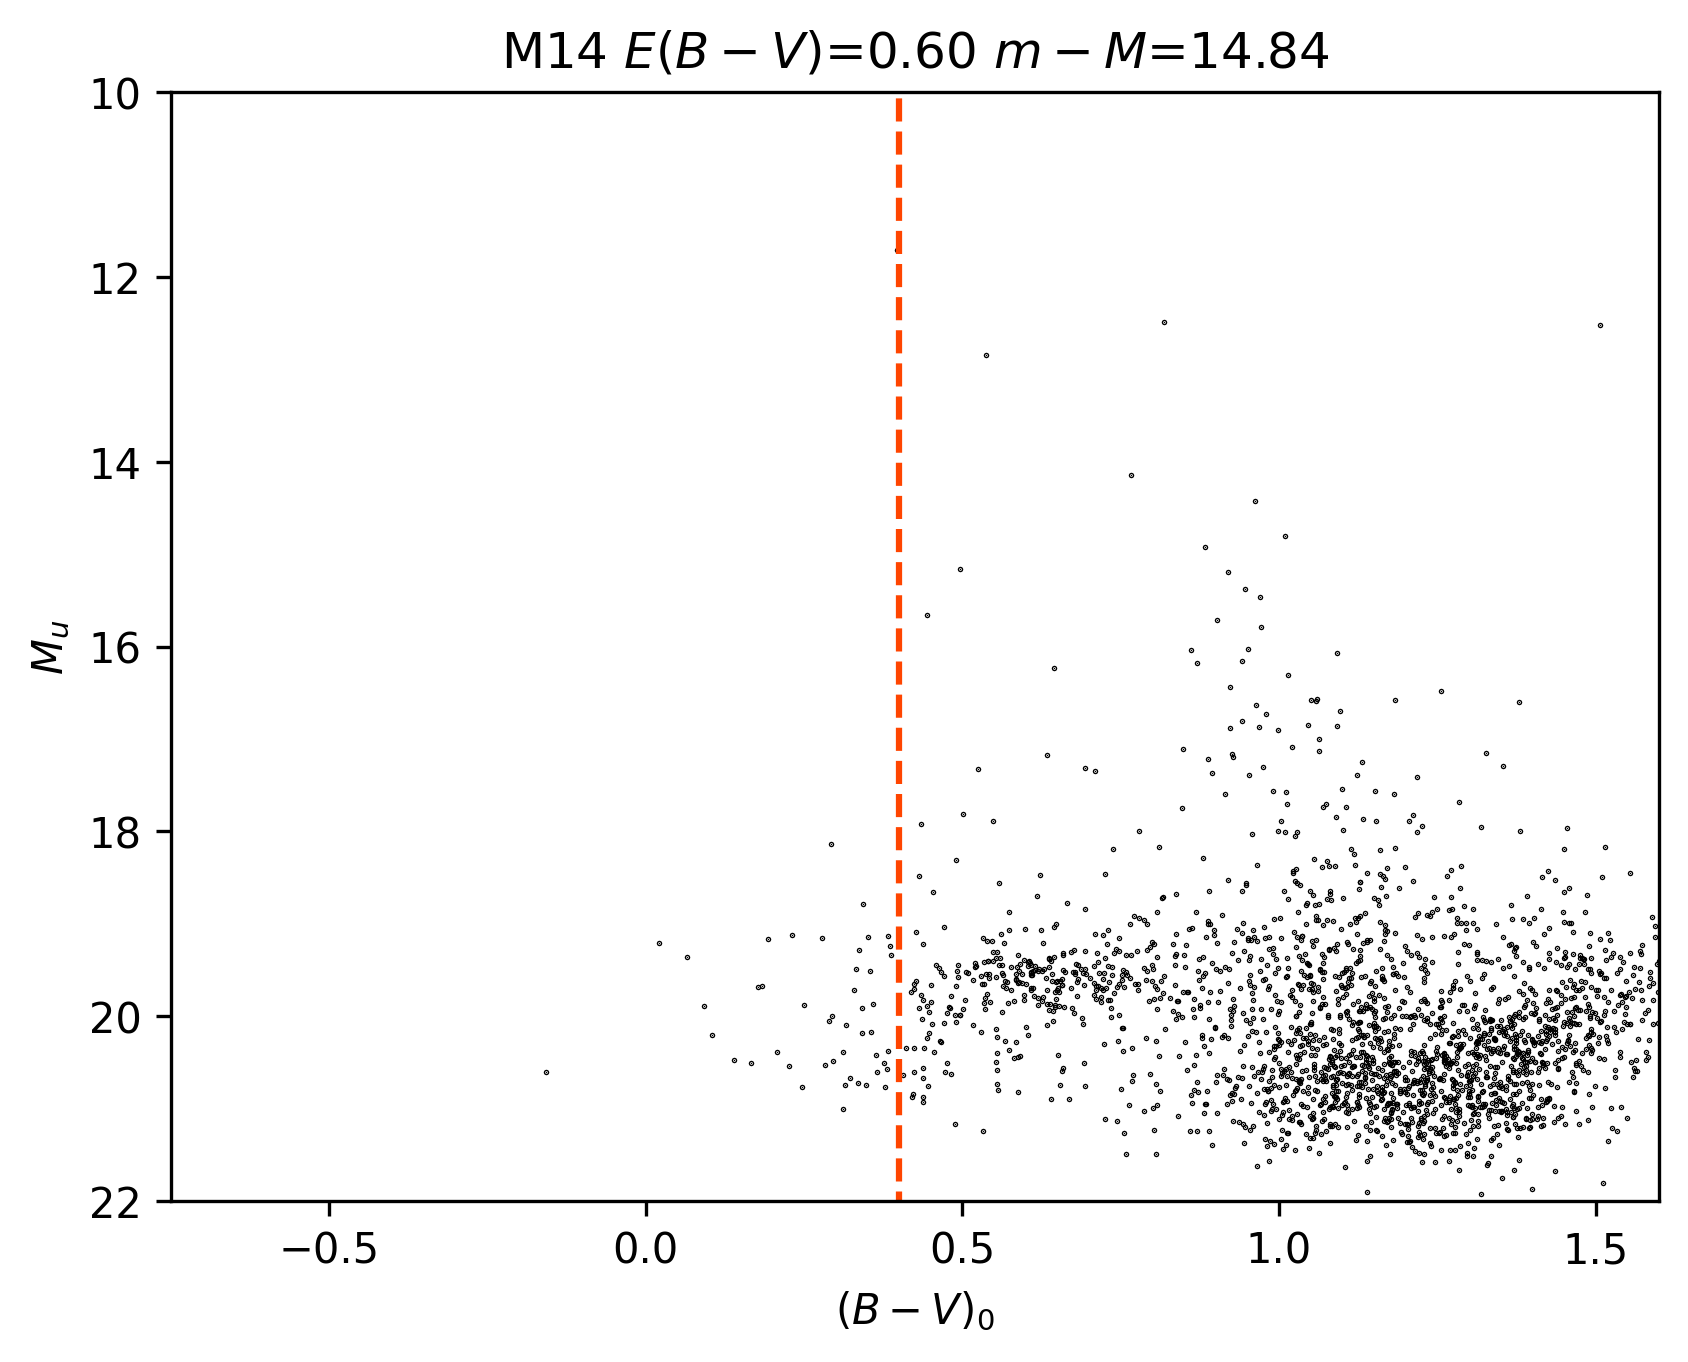
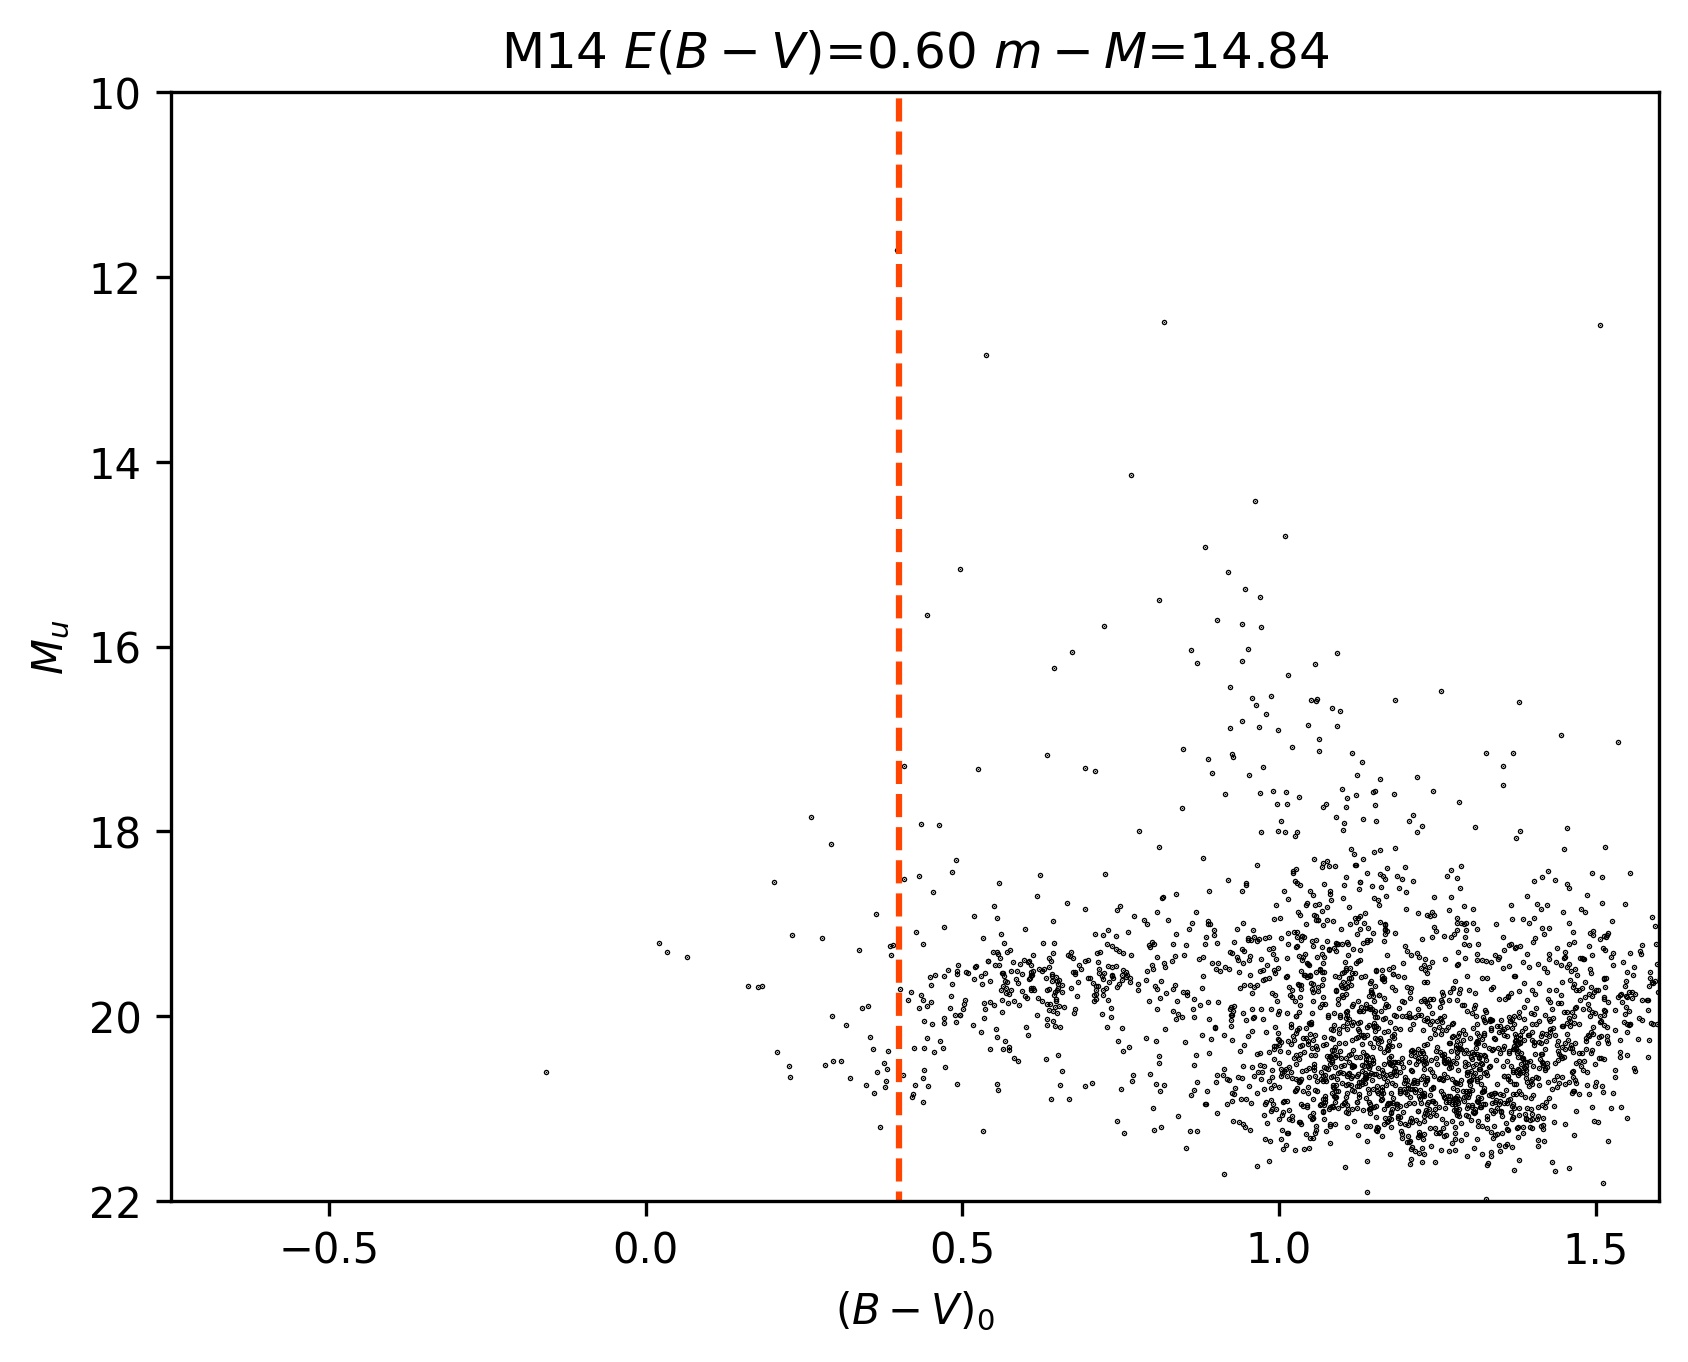
Changed HB model to fix for M14, updated plots to include HB model

diff --git a/trial.py b/trial.py
@@ -43,7 +43,7 @@ dat2 = Table.read(clusterGaiaFile, format="ascii")
 dat4 = pd.read_csv("GAIAData/{}".format(clusterGaiaResults))
 dat4 = dat4.fillna(1000)
 
-ext = "july"
+ext = "testing"
 
 unID, indexes, inverse, counts = np.unique(dat4[f"{clusterName.lower()}_oid"],
           return_index=True,
@@ -238,19 +238,20 @@ def DBSCANPlots(bv,v,b,u,vi,ub,ubbv,clusterName,cond,dist,raClust,decClust,c,r_c
     distModulus = 5*np.log10(dist*100)
     
     #breakpoint()
-    fig, ax = plt.subplots()
-    ax.scatter(bv[indAll],v[indAll],c='k',s=0.1)
+    # fig, ax = plt.subplots()
+    # ax.scatter(bv[indAll],v[indAll],c='k',s=0.1)
     #ax.scatter(bvhb,vhb,c='b',s=2)
-    xplot = np.linspace(bv[indAll].min(),bv[indAll].max(),len(bv[indAll]))
+    # xplot = np.linspace(bv[indAll].min(),bv[indAll].max(),len(bv[indAll]))
     #x_array = np.linspace(-0.6,1.3,100)
-    y = model_f(xplot, -3.74, 7.03, 6.83, -19.86, 8.98, -1.51, 0.35,-0.15)
-    #y = model_f(xplot, -3.74, 7.03, 6.83, -19.86, 8.98, -1.51, 0.83)
-    ax.plot(xplot, y, "r-")
-    ax.vlines(x = -0.05, ymin = -4, ymax = 5)
-    #ax.plot(xplot,model_f(xplot,*popt),'r--')
+    # y = model_f(xplot, -3.74, 7.03, 6.83, -19.86, 8.98, -1.51, 0.35,-0.15)
+    # #y = model_f(xplot, -3.74, 7.03, 6.83, -19.86, 8.98, -1.51, 0.83)
+    # ax.plot(xplot, y, "r-")
+    # ax.vlines(x = -0.05, ymin = -4, ymax = 5)
+    # #ax.plot(xplot,model_f(xplot,*popt),'r--')
 
     #HB Model Equation
-    y2 = model_f(bv[indAll], -3.74, 7.03, 6.83, -19.86, 8.98, -1.51, 0.35,-0.15)
+    y2 = model_f(bv[indAll], -3.74, 7.03, 6.83, -19.86, 8.98, -1.51, 0.35,0.05)
+    y_u = model_f(bv[indAll], -3.74, 7.03, 6.83, -19.86, 8.98, -1.51, 1.65, 0.6)
 
     #y2 = model_f(bv[indAll], -3.74, 7.03, 6.83, -19.86, 8.98, -1.51, 0.83)
     UVBrightCond = np.logical_and(v[indAll]<y2,bv[indAll]<-0.05)
@@ -270,7 +271,7 @@ def DBSCANPlots(bv,v,b,u,vi,ub,ubbv,clusterName,cond,dist,raClust,decClust,c,r_c
     #ax.plot(xplot, y, "r-")
     ax.vlines(x=-0.05, ymin=-4, ymax=5)
     # ax.plot(xplot,model_f(xplot,*popt),'r--')
-    y2 = model_f(bvRaw[indAll], -3.74, 7.03, 6.83, -19.86, 8.98, -1.51, 0.35, -0.15)
+    # y2 = model_f(bvRaw[indAll], -3.74, 7.03, 6.83, -19.86, 8.98, -1.51, 0.35, -0.15)
     # y2 = model_f(bv[indAll], -3.74, 7.03, 6.83, -19.86, 8.98, -1.51, 0.83)
     ax.scatter(bvRaw[indAll][UVBrightCond], vRaw[indAll][UVBrightCond], c='g', s=2)
     ax.set_title("{} $E(B-V)$={:.2f} $m-M$={:.2f}".format(clusterName, ebv, distModulus))
@@ -285,14 +286,15 @@ def DBSCANPlots(bv,v,b,u,vi,ub,ubbv,clusterName,cond,dist,raClust,decClust,c,r_c
     # ax.scatter(bvhb,vhb,c='b',s=2)
     xplot = np.linspace(bvRaw[indAll].min(), bvRaw[indAll].max(), len(bvRaw[indAll]))
     # x_array = np.linspace(-0.6,1.3,100)
-    y = model_f(xplot, -3.74, 7.03, 6.83, -19.86, 8.98, -1.51, 0.35, -0.15)
+    # y = model_f(xplot, -3.74, 7.03, 6.83, -19.86, 8.98, -1.51, 0.35, -0.15)
+    UVBrightCond1 = np.logical_and(u[indAll] < y_u, bv[indAll] < -0.05)
     # y = model_f(xplot, -3.74, 7.03, 6.83, -19.86, 8.98, -1.51, 0.83)
     #ax.plot(xplot, y, "r-")
     ax.vlines(x=-0.05, ymin=-4, ymax=5)
     # ax.plot(xplot,model_f(xplot,*popt),'r--')
-    y2 = model_f(bvRaw[indAll], -3.74, 7.03, 6.83, -19.86, 8.98, -1.51, 0.35, -0.15)
+    # y2 = model_f(bvRaw[indAll], -3.74, 7.03, 6.83, -19.86, 8.98, -1.51, 0.35, -0.15)
     # y2 = model_f(bv[indAll], -3.74, 7.03, 6.83, -19.86, 8.98, -1.51, 0.83)
-    ax.scatter(bvRaw[indAll][UVBrightCond], uRaw[indAll][UVBrightCond], c='g', s=2)
+    ax.scatter(bvRaw[indAll][UVBrightCond1], uRaw[indAll][UVBrightCond1], c='g', s=2)
     ax.set_title("{} $E(B-V)$={:.2f} $m-M$={:.2f}".format(clusterName, ebv, distModulus))
     ax.set_xlim(-0.75, 1.3)
     ax.set_ylim(21, 13.5)
@@ -335,7 +337,17 @@ def DBSCANPlots(bv,v,b,u,vi,ub,ubbv,clusterName,cond,dist,raClust,decClust,c,r_c
     #breakpoint()
     #infiles = np.savetxt("candStars/%s_candStars.dat"%(clusterName,ext),fileArray, fmt="%d,%.6f,%.6f,%.2f,%.2f", delimiter = ",",header="SiegelIndex,RA,Dec,(B-V)0,Mv")
     #infiles1 = np.savetxt("candStars/%s_candStars1.dat"%(clusterName,ext),fileArray1, fmt="%s", delimiter = "\t",header="Siegel_Index    RA    Dec    (B-V)_0    M_V")
-    
+
+    fig, ax = plt.subplots()
+    ax.scatter(bv[indAll], v[indAll], c='k', s=0.1)
+    # ax.scatter(bvhb,vhb,c='b',s=2)
+    xplot = np.linspace(bv[indAll].min(), bv[indAll].max(), len(bv[indAll]))
+    # x_array = np.linspace(-0.6,1.3,100)
+    # y = model_f(xplot, -3.74, 7.03, 6.83, -19.86, 8.98, -1.51, 0.35, -0.15)
+    y = model_f(xplot, -3.74, 7.03, 6.83, -19.86, 8.98, -1.51, 0.35,0.05)
+    ax.plot(xplot, y, "r-")
+    ax.vlines(x=-0.05, ymin=-4, ymax=5)
+    # ax.plot(xplot,model_f(xplot,*popt),'r--')
     ax.scatter(bv[indAll][UVBrightCond],v[indAll][UVBrightCond],c='g',s=2)
     ax.set_xlim(-0.75,1.6)
     ax.set_ylim(5,-4)
@@ -408,18 +420,18 @@ def DBSCANPlots(bv,v,b,u,vi,ub,ubbv,clusterName,cond,dist,raClust,decClust,c,r_c
     #y = model_f(xplot, -3.74, 7.03, 6.83, -19.86, 8.98, -1.51, 2.1)
     xplot = np.linspace(bv[indAll].min(), bv[indAll].max(), len(bv[indAll]))
     # x_array = np.linspace(-0.6,1.3,100)
-    y = model_f(xplot, -3.74, 7.03, 6.83, -19.86, 8.98, -1.51, 1.65,-0.01)
+    y = model_f(xplot, -3.74, 7.03, 6.83, -19.86, 8.98, -1.51, 1.65,0.6)
     # y = model_f(xplot, -3.74, 7.03, 6.83, -19.86, 8.98, -1.51, 0.83)
     ax.plot(xplot, y, "r-")
     ax.vlines(x=-0.05, ymin=-4, ymax=5)
     # ax.plot(xplot,model_f(xplot,*popt),'r--')
-    y2 = model_f(bv[indAll], -3.74, 7.03, 6.83, -19.86, 8.98, -1.51, 1.65,-0.01)
+    # y2 = model_f(bv[indAll], -3.74, 7.03, 6.83, -19.86, 8.98, -1.51, 1.65,-0.01)
     #ax.plot(xplot, y, "r-")
     ax.vlines(x = -0.05, ymin = -3, ymax = 4)
     #ax.plot(xplot,model_f(xplot,*popt),'r--')
     #y2 = model_f(bv[indAll], -3.74, 7.03, 6.83, -19.86, 8.98, -1.51, 2.1)
     #UVBrightCond = np.logical_and(u[indAll]<y2,bv[indAll]<-0.05)
-    UVBrightCond1 = np.logical_and(u[indAll] < y2, bv[indAll] < -0.05)
+    UVBrightCond1 = np.logical_and(u[indAll] < y_u, bv[indAll] < -0.05)
     ax.scatter(bv[indAll][UVBrightCond1],u[indAll][UVBrightCond1],c='g',s=2)
     ax.set_title("{} $E(B-V)$={:.2f} $m-M$={:.2f}".format(clusterName, ebv, distModulus))
     ax.set_xlim(-0.75,1.3)

diff --git a/commonChecker.py b/commonChecker.py
@@ -59,41 +59,54 @@ moo = np.where(dat1["col1"]==10002)[0]
 
 # print(dat1[moo])
 
-df2 = Table.read("clusterMembers/M14_memberStars_6.dat", format="ascii", delimiter="\s")
-df3 = Table.read("candStars/candStarMasterList/M14_candStarsMaster_testing.dat", format="ascii", delimiter="\s")
+df2 = Table.read("clusterMembers/M80_memberStars_10002.dat", format="ascii", delimiter="\s")
+# df3 = Table.read("candStars/candStarMasterList/M14_candStarsMaster_testing.dat", format="ascii", delimiter="\s")
 # print(df2)
 
 vRaw = df2['col14']
 B = df2['col13']
 bvRaw = B-vRaw
 
-v = df2['col11']
-b = df2['col10']
+v = df2['col10']
+b = df2['col9']
+i = df2['col11']
 bv = b-v
+vi = v-i
 
-vRaw1 = df3['col14']
-B1 = df3['col13']
-bvRaw1 = B1-vRaw1
+# print(df2)
 
-v1 = df3['col11']
-b1 = df3['col10']
-bv1 = b1-v1
+if (vi[1543] > 0.331+1.444*bv[1543]):
+    print(0)
+else:
+    print(1)
+
+
+
+
+# vRaw1 = df3['col14']
+# B1 = df3['col13']
+# bvRaw1 = B1-vRaw1
+#
+# v1 = df3['col11']
+# b1 = df3['col10']
+# bv1 = b1-v1
 
 def model_f(x,a,b,c,d,e,f,g,k):
     x=x+k
     return a*x**6+b*x**5+c*x**4+d*x**3+e*x**2+f*x+g
 
-fig, ax = plt.subplots()
-ax.scatter(bv, v, c='k', s=0.1)
-# ax.scatter(bvhb,vhb,c='b',s=2)
-ax.scatter(bv1, v1, c='orangered', s=5, marker="o")
-xplot = np.linspace(bv1.min(), bv1.max(), len(bv1))
-# -3.74, 7.03, 6.83, -19.86, 8.98, -1.51, 0.35, -0.15
-y = model_f(xplot, -3.74, 7.03, 6.83, -19.86, 8.98, -1.51, 0.35,-0.15)
-ax.plot(bv1, y, color="red", linestyle="--")
-# ax.set_title("{} $E(B-V)$={:.2f} $m-M$={:.2f}".format(clusterName, ebv, distModulus))
-ax.set_xlim(-0.75, 1.3)
-ax.set_ylim(5,-4)
-ax.set_xlabel('$B-V$')
-ax.set_ylabel('$V$')
-plt.show()
+# fig, ax = plt.subplots()
+# ax.scatter(bv, v, c='k', s=0.1)
+# # ax.scatter(bvhb,vhb,c='b',s=2)
+# ax.scatter(bv1, v1, c='orangered', s=5, marker="o")
+# xplot = np.linspace(bv1.min(), bv1.max(), len(bv1))
+# # -3.74, 7.03, 6.83, -19.86, 8.98, -1.51, 0.35, -0.15
+# y = model_f(xplot, -3.74, 7.03, 6.83, -19.86, 8.98, -1.51, 0.35,-0.15)
+# ax.plot(bv1, y, color="red", linestyle="--")
+# # ax.set_title("{} $E(B-V)$={:.2f} $m-M$={:.2f}".format(clusterName, ebv, distModulus))
+# ax.set_xlim(-0.75, 1.3)
+# ax.set_ylim(5,-4)
+# ax.set_xlabel('$B-V$')
+# ax.set_ylabel('$V$')
+# plt.show()
+
